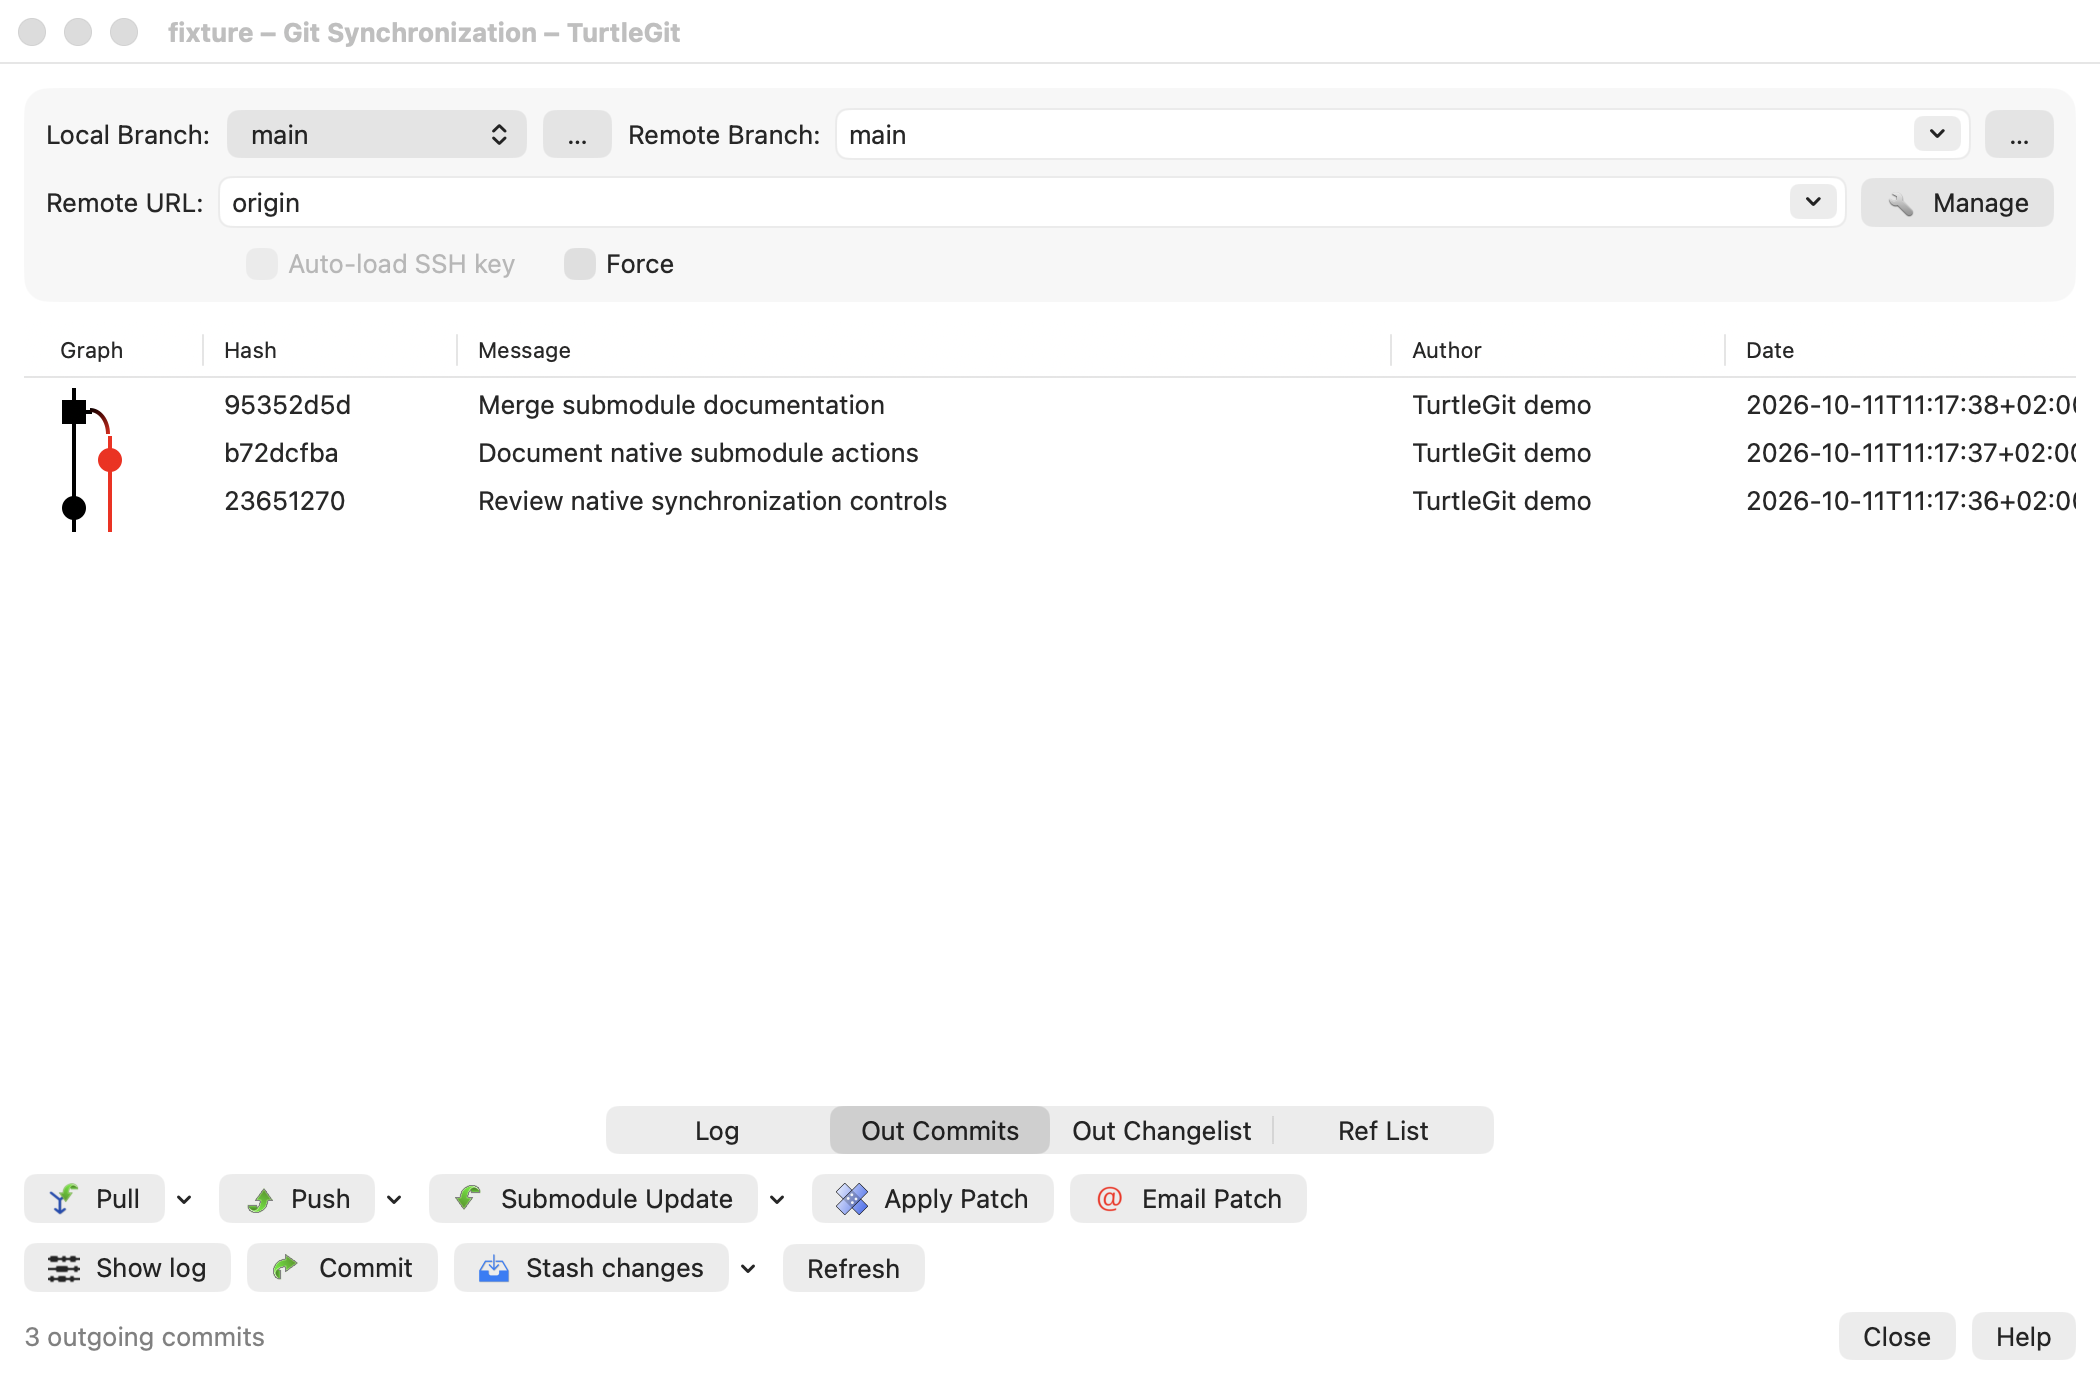
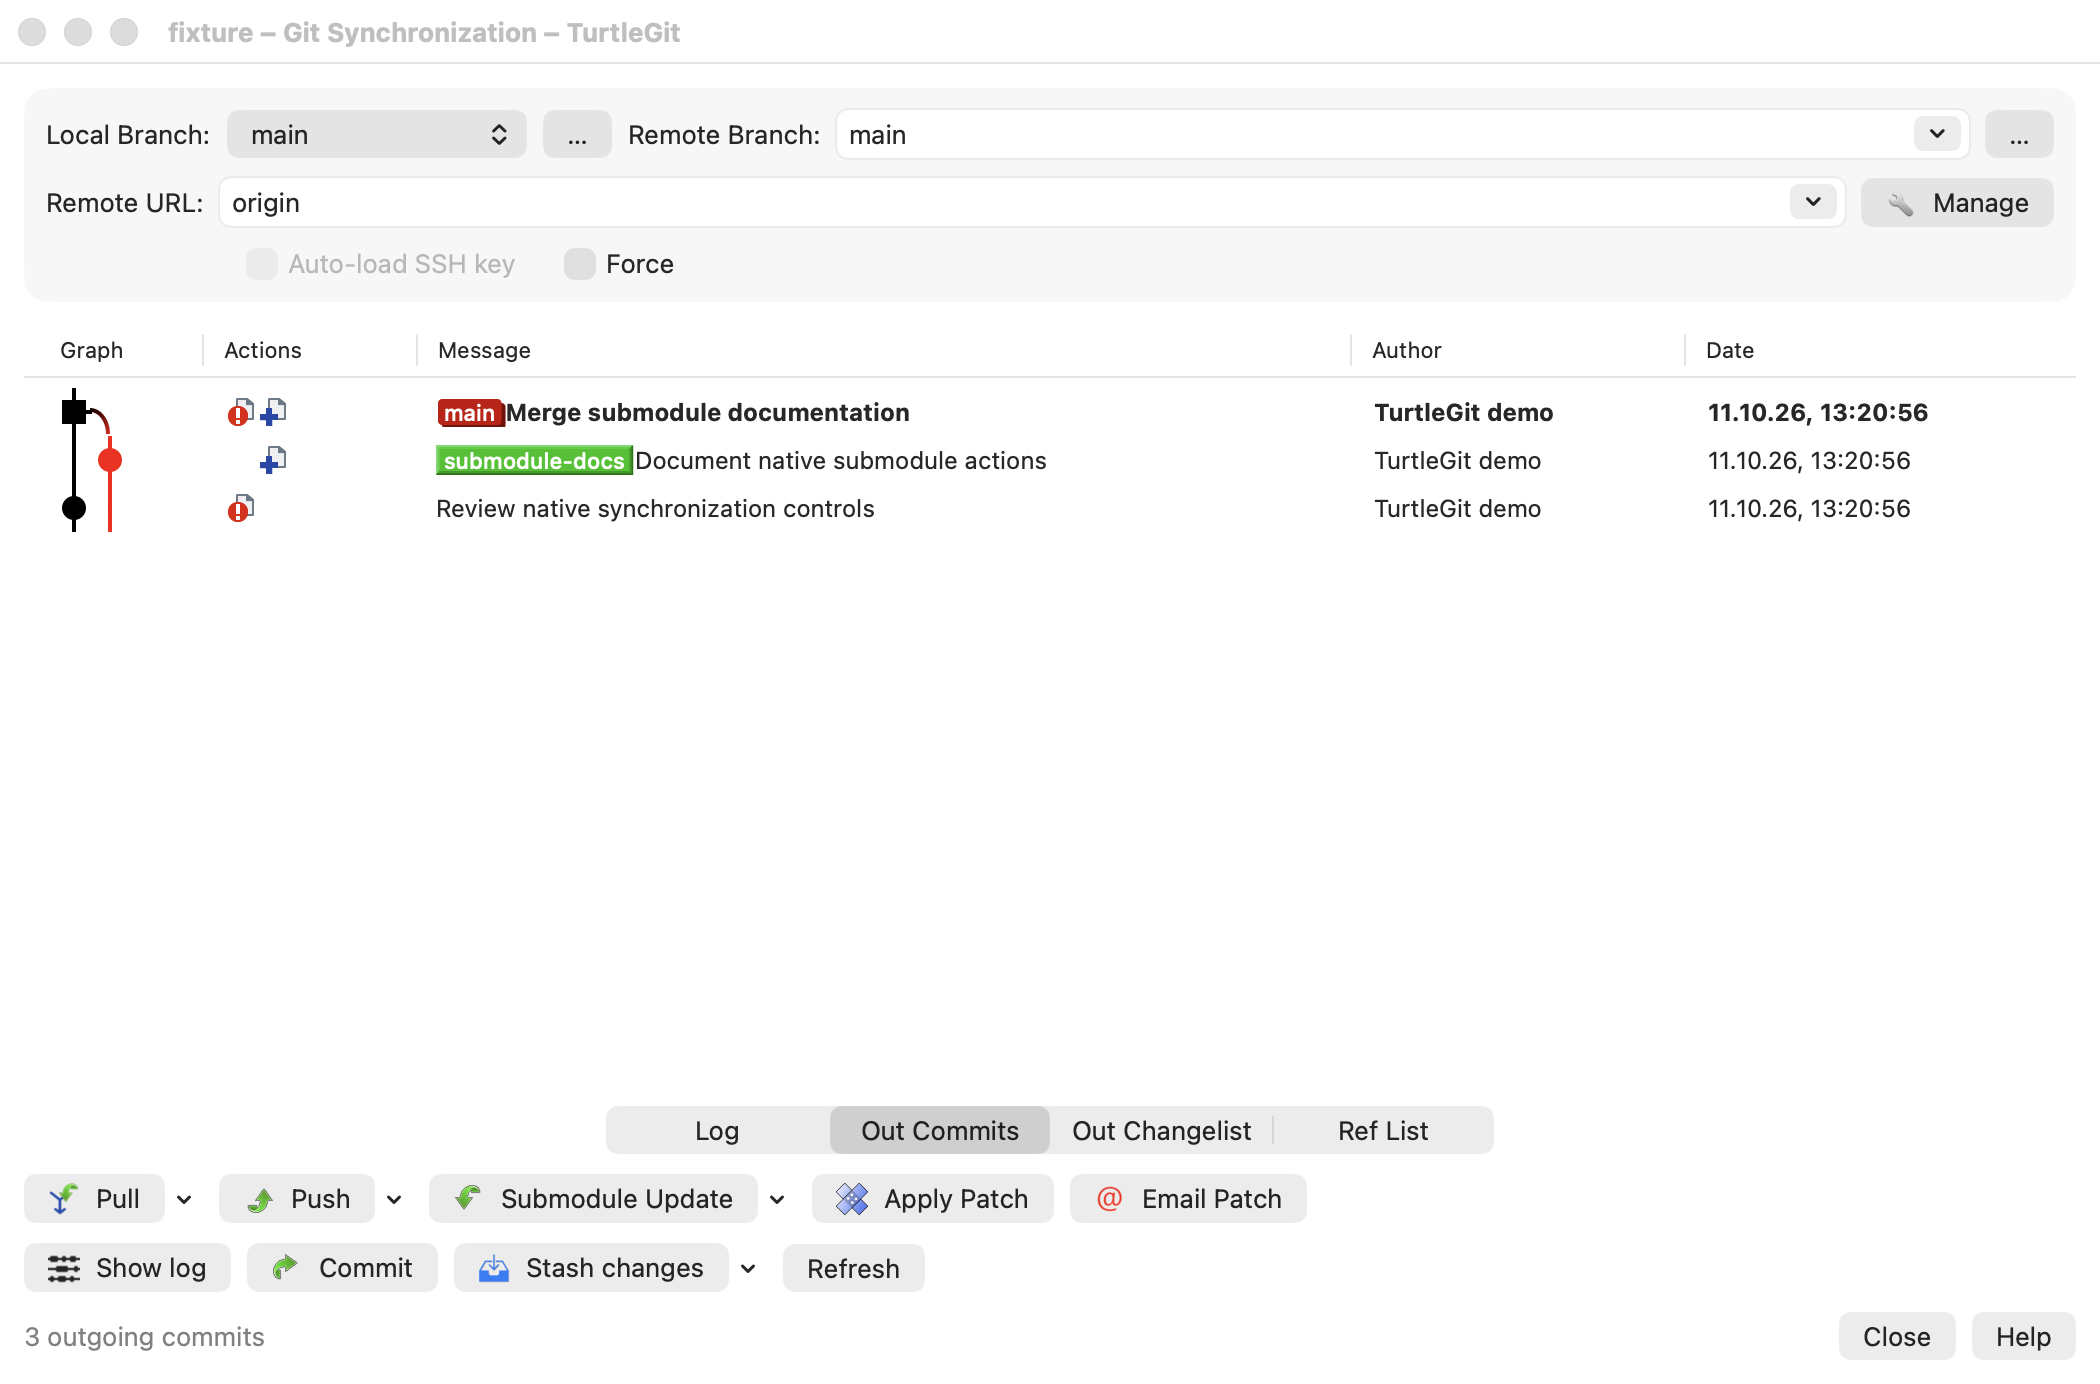
Record completed Core checks, Sync clipboard parity and current screenshots

diff --git a/docs/UI-PARITY.md b/docs/UI-PARITY.md
@@ -45,7 +45,7 @@ preview, accepted-plan execution and recursive submodule batches. Remaining work
 | Repository status | ChangedDlg, IDD_CHANGEDFILES and GitStatusListCtrl | Standalone branch/list/filter/action layout, six columns, native filter and stage/unstage/diff/export checks. Full context menus, persisted options, cancellation and remote checks pending. See STATUS-PARITY.md. |
 | Switch/Checkout | GitSwitchDlg, IDD_GITSWITCH, SwitchCommand and CChooseVersion | Native Branch/Tag/Commit rows and option controls; captured full options route through shared Switch results, source-ordered recovery and cancellation confirmation. Full chooser, physical progress and broader UI QA pending. See SWITCH-PARITY.md. |
 | New Branch/Tag | CreateBranchTagDlg, IDD_NEW_BRANCH_TAG, BranchCommand, TagCommand and CAppUtils | Native name/revision/options/description or message layout; branch creation hands off to shared Switch, then captured description with description-only retry; tag Push and cross-name Continue retain submitted choices. Full choosers, signing UI, physical handoffs and broader QA pending. See BRANCH-TAG-PARITY.md. |
-| Synchronization | SyncDlg, IDD_SYNC and GitSync.png | Native graph-first incoming/outgoing history, file/ref/tag results, owned Pull/Fetch/Rebase/Push/Submodule/Stash/Apply Patch/Email Patch workflows and branch/remote choosers remain partial. Source tab order and captions below results, Force beside SSH and status/Close/Help footer now match the source arrangement; six actual normal/minimum/incoming light/dark captures checked. Close/reopen and immediate popup deletion now preserve source history rules. Revision lists now use source-default Actions/Message/Author/Date, optional SHA-1/email/committer columns, conditional Bug-ID, original action icons, colored tracking/annotated ref labels and shared date/message settings. Both Git engines passed native rendering/preferences/owned-read-close checks. Full column interactions, autocomplete/context menus, project hooks, progress phases and physical/signed acceptance remain pending. See SYNCHRONIZATION-PARITY.md. |
+| Synchronization | SyncDlg, IDD_SYNC and GitSync.png | Native graph-first incoming/outgoing history, file/ref/tag results, owned Pull/Fetch/Rebase/Push/Submodule/Stash/Apply Patch/Email Patch workflows and branch/remote choosers remain partial. Source tab order and captions below results, Force beside SSH and status/Close/Help footer now match the source arrangement; six actual normal/minimum/incoming light/dark captures checked. Close/reopen and immediate popup deletion now preserve source history rules. Revision lists now use source-default Actions/Message/Author/Date, optional SHA-1/email/committer columns, conditional Bug-ID, original action icons, colored tracking/annotated ref labels and shared date/message settings. Both Git engines passed native rendering/preferences/owned-read-close checks. Captured clipboard submenus and hash-based selection retention now have native evidence; normal public-site screenshots updated. Full remaining column/row/context interactions, autocomplete, project hooks, progress phases and physical/signed acceptance remain pending. See SYNCHRONIZATION-PARITY.md. |
 | Push | PushDlg, IDD_PUSH, PushCommand and CAppUtils | Native reference/destination/options arrangement; branch/upstream and tag-scoped handoff verified with unchanged index/worktree patches. Basic Manage and cached ref browsers; full choosers/settings, progress, cancellation and authentication pending. See PUSH-PARITY.md. |
 | Fetch | PullFetchDlg, IDD_PULLFETCH, FetchCommand and CAppUtils | Native control arrangement and three-state Tags/Prune; URL branch browse/fetch and configured named-remote fetch verified with unchanged HEAD/index/worktree. Fetch → Rebase plan verified; full settings, progress and broader QA pending. See FETCH-PARITY.md. |
 | Pull | PullFetchDlg, IDD_PULLFETCH, PullCommand and CAppUtils | Shared native remote/options window; fast-forward pull preserves unrelated mixed changes, flag enablement and error → Working Tree verified. Configured Pull → Rebase auto-start verified; progress and full recovery pending. See PULL-PARITY.md. |

diff --git a/docs/SYNCHRONIZATION-PARITY.md b/docs/SYNCHRONIZATION-PARITY.md
@@ -973,7 +973,7 @@ markers and a bounded 1200-second receiver lifetime. Debug and unsigned universa
 AppStore builds and both bundle audits passed. The complete native regression has
 passed all 28 groups across system and packaged Git; both receivers were reaped.
 The inventory pin audit and documentation-site build passed. The complete Core
-suite is still running. See the [verification record](qa/git-process-exit-2026-10-11.json).
+suite passed 979 tests with one optional DNS probe skipped and no failures. See the [verification record](qa/git-process-exit-2026-10-11.json).
 
 ## Revision lists, 11 October 2026
 
@@ -998,8 +998,35 @@ date/message settings, independent header preferences/reset, immutable Git state
 and owned slow-query termination with late-result suppression. Sixteen actual
 outgoing/incoming normal/minimum light/dark images were captured across the two
 engines. Debug and unsigned universal AppStore builds and both bundle audits passed.
-The broader Sync regression is still running; the full Core run is on unchanged
-Core sources from the earlier process-completion checkpoint. The earlier 28-group
-pass does not certify this GUI change. Full row/context interactions, SVN/ID
+All 28 broader Sync regression groups passed on code 5e5fc0e with both owned
+receivers reaped; transient SwiftUI cycle warnings remain an investigation item.
+The complete Core suite passed 979 tests with one optional DNS probe skipped and
+no failures, on unchanged Core sources from the process-completion checkpoint.
+This evidence covers revision-list code 5e5fc0e; later clipboard changes have a
+separate record. Full row/context interactions, SVN/ID
 special modes, custom bisect terms, physical accessibility and signed acceptance
 remain open. See [the verification record](qa/synchronization-revision-list-2026-10-11.json).
+
+## Clipboard menus and selection retention, 11 October 2026
+
+The incoming/outgoing revision lists now expose the source clipboard submenu:
+full details with/without changed paths, hashes, full authors, author names/emails,
+subjects/messages, and tag/branch names. Right-clicking a painted label carries
+its canonical name; multiple-row menus capture their ordered revision values.
+Full details reuse the cancellable all-parent/notes/annotated-tag Core routine.
+Forced closure cancels the owned read and fences late clipboard writes. List
+refresh now restores selected commit hashes, fixing the selection loss reproduced
+between two consecutive full-detail copy actions. Installing the shared badge
+cell before setting its font also preserves HEAD's bold message text.
+
+Both Git engines passed the expanded native fixture, including private clipboard
+contents, captured multi-selection, source text formats, pointed names, metadata
+with/without paths, selection retention, and owned read termination without late
+publication. Debug/unsigned universal AppStore builds and both audits passed.
+The complete Core suite passed 979 cases with one optional DNS skip; the skipped
+system MX probe subsequently passed, including 32 post-open descriptor checks.
+Six actual normal/minimum/incoming light/dark demo captures were generated and
+the two normal public-site images updated after inspection. Full row/context
+commands beyond clipboard, cross-launch/tab selection, live font sizing, source
+special modes, physical/signed acceptance and the prior transient cycle warnings
+remain open. See [the clipboard record](qa/synchronization-clipboard-2026-10-11.json).

diff --git a/docs/REFERENCE-BROWSER-PARITY.md b/docs/REFERENCE-BROWSER-PARITY.md
@@ -578,3 +578,16 @@ load keys. Native operation closure cancels pending encrypted responses and owns
 agent cleanup. This does not cover Log's separate reference-deletion route or
 prove displayed sheets, signed scopes or real SSH authentication. See
 SSH-TRANSPORT-PARITY.md.
+
+## Deletion fixture follow-up, 11 October 2026
+
+The completed hosted run at 76824a5793 failed with “Owned deletion process absent”.
+Its log did not report the parsed PIDs. The fixture now atomically publishes its
+helper/child PID marker before readiness, retains the original live-process
+assertions and reports PID diagnostics. Its driver links the fresh Debug objects,
+runs the native event loop, and bounds/terminates/reaps private receivers. Both
+Git engines passed the original confirmation/mutation/refresh and forced-close
+checks after this change. This does not prove the exact old CI root cause or a
+new hosted pass. CI now uses the documented standard Intel runner and preserves
+an active workflow while superseding future pending runs on the same branch.
+See [the scoped record](qa/reference-deletion-ci-2026-10-11.json).
